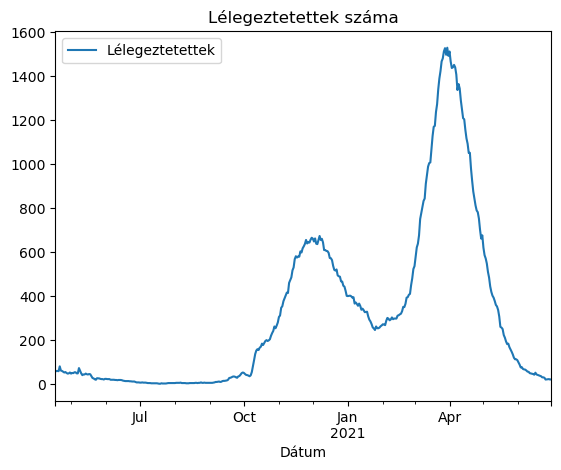
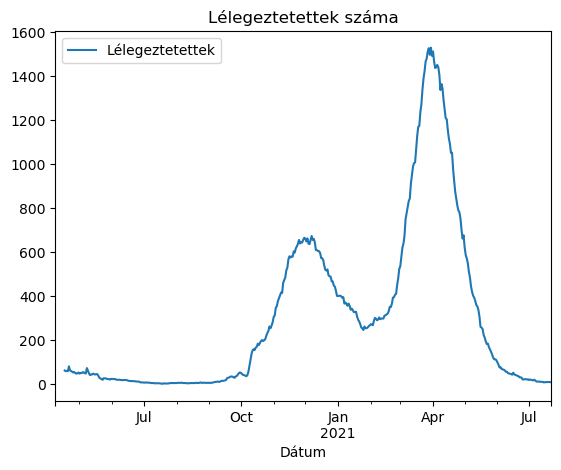
Lélegeztetettek refaktor

diff --git a/kép_lélegeztetettek.py b/kép_lélegeztetettek.py
@@ -10,17 +10,11 @@ import matplotlib.pyplot as plt
 
 BASEDIR=os.path.dirname(__file__)
 
-df = pd.read_csv(BASEDIR +"/adatok/covidadatok.csv", parse_dates=['Dátum'])
-df2 = pd.read_csv(BASEDIR +"/adatok/hiradatok.csv", parse_dates=['Dátum'])
+df = pd.read_csv(BASEDIR +"/adatok/hiradatok.csv", parse_dates=['Dátum'])
 
-dfkozos = pd.merge(df, df2, left_on = 'Dátum', right_on = 'Dátum', how='outer')
-dfkozos = dfkozos[dfkozos['Dátum'] >= "2020-04-17"]
-dfkozos = dfkozos[dfkozos['Dátum'] < "2021-07-01"]
+df['Lélegeztetettek'] = df['Lélegeztetettek'].interpolate(method='linear')
 
-dfkozos['Lélegeztetettek'] = dfkozos['Lélegeztetettek'].interpolate(method='linear')
-
-
-plot = dfkozos.plot(x='Dátum', y='Lélegeztetettek', title="Lélegeztetettek száma")	
+plot = df.plot(x='Dátum', y='Lélegeztetettek', title="Lélegeztetettek száma")	
 
 fig = plot.get_figure()
 fig.savefig(BASEDIR + "/képek/Lélegeztetettek.png", bbox_inches = "tight")
